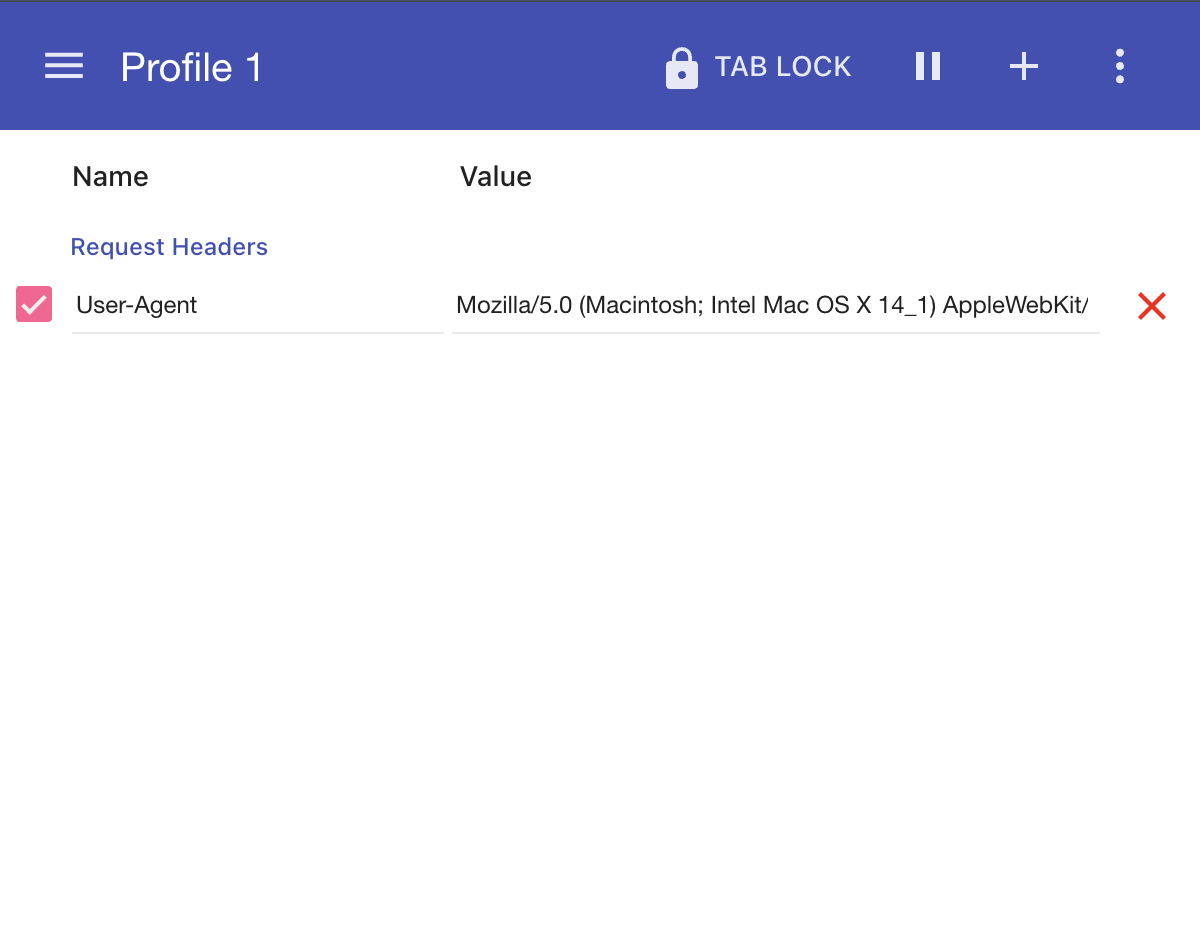
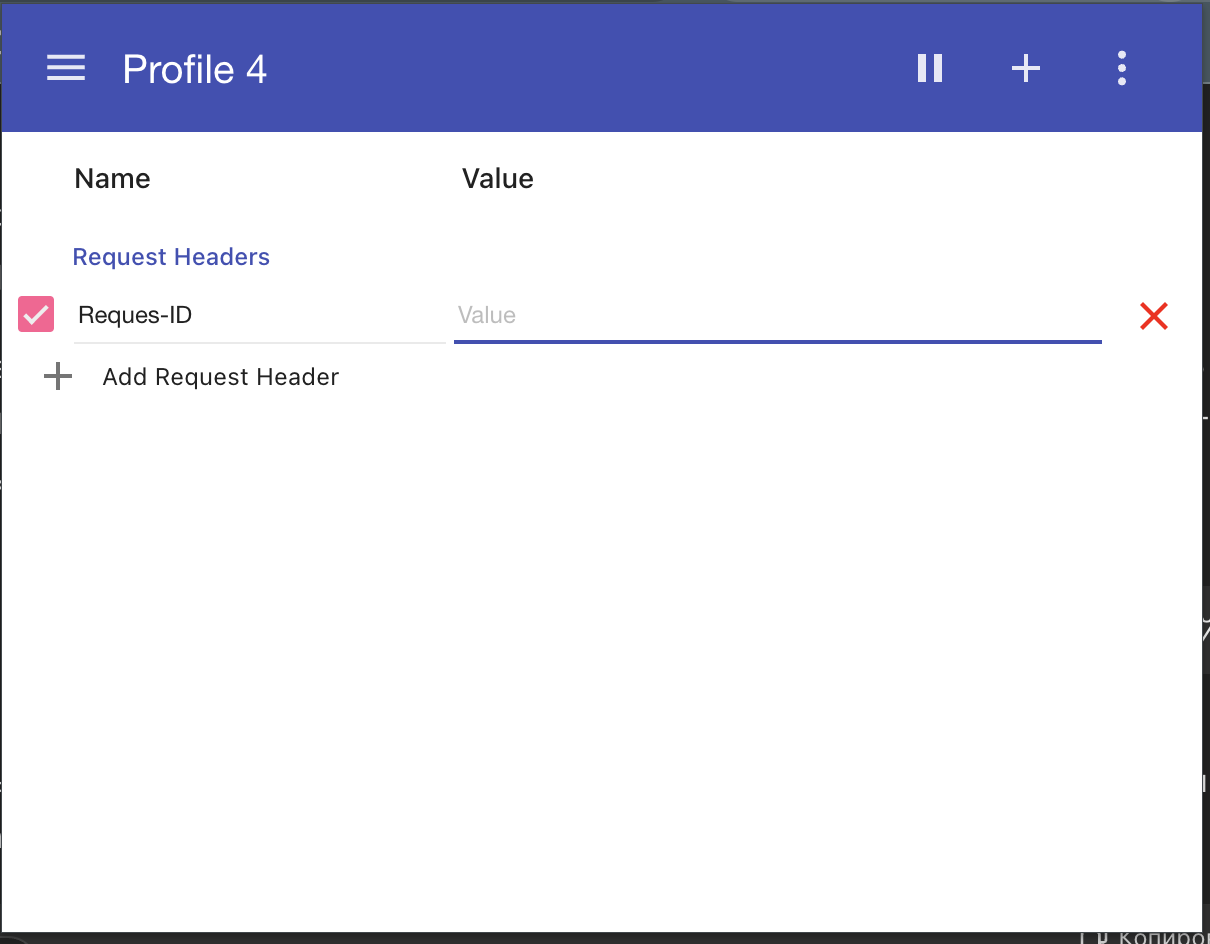
add

diff --git a/src/main.js b/src/main.js
@@ -6,81 +6,31 @@ modHeader.config(['$compileProvider', ($compileProvider) => {
   $compileProvider.debugInfoEnabled(true);
 }]);
 
-// modHeader.config(['$provide', function ($provide) {
-//   $provide.decorator('$q', ['$delegate', '$exceptionHandler', function ($delegate, $exceptionHandler) {
-//     var $q = $delegate;
-
-//     $q.defer = function () {
-//       var deferred = $delegate.defer();
-
-//       deferred.promise.catch(function (reason) {
-//         $exceptionHandler(reason);
-//       });
-
-//       return deferred;
-//     };
-
-//     return $q;
-//   }]);
-// }]);
-
-// modHeader.factory('$exceptionHandler', function () {
-//   return function (exception, cause) {
-//     console.error('Exception:', exception, 'Cause:', cause);
-//   };
-// });
-
-
-// modHeader.config(function ($provide) {
-//   $provide.decorator('$q', function ($delegate, $exceptionHandler) {
-//     var $q = $delegate;
-
-//     // Переопределяем метод defer, чтобы добавить обработку ошибок
-//     $q.defer = function () {
-//       var deferred = $delegate.defer();
-
-//       deferred.promise.catch(function (reason) {
-//         // Обработка отклонения промиса
-//         $exceptionHandler(reason);
-//       });
-
-//       return deferred;
-//     };
-
-//     return $q;
-//   });
-// });
-
-// modHeader.factory('$exceptionHandler', function () {
-//   return function (exception, cause) {
-//     console.error('Ошибка:', exception, 'Причина:', cause);
-//     // Дополнительная логика для обработки ошибок
-//   };
-// });
-
 function fixProfileFilters(profile) {
   if (!profile.filters) {
     return;
   }
 
   for (let filter of profile.filters) {
-    if (filter.urlPattern) {
-      const urlPattern = filter.urlPattern;
-      const joiner = [];
-      for (let i = 0; i < urlPattern.length; ++i) {
-        let c = urlPattern.charAt(i);
-        if (SPECIAL_CHARS.indexOf(c) >= 0) {
-          c = '\\' + c;
-        } else if (c == '\\') {
-          c = '\\\\';
-        } else if (c == '*') {
-          c = '.*';
-        }
-        joiner.push(c);
-      }
-      delete filter.urlPattern;
-      filter.urlRegex = joiner.join('');
+    if (!filter.urlPattern) {
+      continue;
     }
+
+    const urlPattern = filter.urlPattern;
+    const joiner = [];
+    for (let i = 0; i < urlPattern.length; ++i) {
+      let c = urlPattern.charAt(i);
+      if (SPECIAL_CHARS.indexOf(c) >= 0) {
+        c = '\\' + c;
+      } else if (c == '\\') {
+        c = '\\\\';
+      } else if (c == '*') {
+        c = '.*';
+      }
+      joiner.push(c);
+    }
+    delete filter.urlPattern;
+    filter.urlRegex = joiner.join('');
   }
 }
 
@@ -154,8 +104,6 @@ modHeader.factory('dataSource', function ($mdToast) {
   dataSource.addFilter = function (filters) {
     browser.storage.local.get(['currentTabUrl'], (res) => {
       let { currentTabUrl } = res;
-
-      console.log('currentTabUrl', currentTabUrl);
 
       if (!currentTabUrl) {
         return;

diff --git a/README.md b/README.md
@@ -15,19 +15,26 @@ ModHeader is a browser extension that allow you to modify HTTP request and respo
 * Cloud backup
 * Tab locking!
 
+### New features from my fork branch
+
+* Fixex bug from origin Open Surce version. Supported add new profile
+* Moved to manifest v3
+* Add Request and Add Response headers in table
+* Random tips in 10% on opening
+* Online update counter with usesage headers
+* Added placeholders for input fields
+* Removed tab locking
+* Little bit refactoring
+
+PS Supported only with local storage sync!
+
 ## Screenshots
 
-### Main page
-
-<img src="./screenshots/main_page.png">
-
-### Profiles
-
-<img src="./screenshots/profiles.png">
-
-### Setting
-
-<img src="./screenshots/settings.png">
+| Filename | Screenshot |
+|-----------|----------|
+| Main page  | <img src="./screenshots/main_page.png" width="200" height="200"> |
+| Profiles  | <img src="./screenshots/profiles.png" width="200" height="200"> |
+| Setting  | <img src="./screenshots/settings.png"> |
 
 ## Forking and contribution
 
